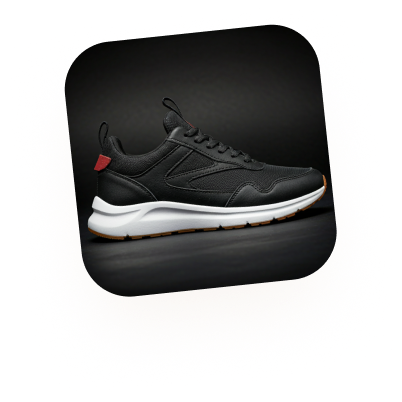
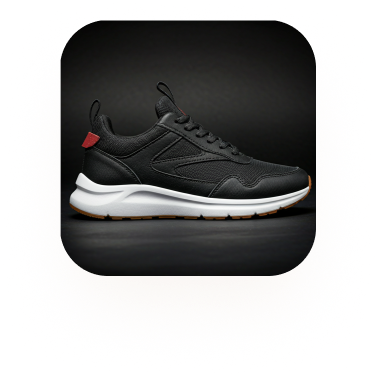
displayflrx

Changed region(s): [[0.1463, 0.0293, 0.8484, 0.7314], [0.2926, 0.7314, 0.3511, 0.7606]]

diff --git a/css/style.css b/css/style.css
@@ -21,12 +21,16 @@ body{
     margin: 0 auto;
     padding: 0 15px;
     outline: solid red;
+    display: flex;
+    align-items: center;
+    justify-content: space-between;
 }
 
 
 .header{
     padding-top: 24px;
     padding-bottom: 24px;
+    display: flex;
 }
 
 
@@ -49,6 +53,9 @@ letter-spacing: -1.2px;
 .header-list{
     display: flex;
     gap: 40px;
+    list-style: none;
+    margin: 0;
+    padding: 0;
 }
 
 
@@ -184,8 +191,7 @@ font-weight: 700;
 line-height: 1.42;
 letter-spacing: 1.4px;
 text-transform: uppercase;
-
-    }
-
+}
 
 
+.hero-item

diff --git a/index.html b/index.html
@@ -64,6 +64,17 @@
           </ul>
         </div>
       </section>
+      <section class="advantages">
+        <div class="container">
+          <div class="advanteges-box">
+            <h2 class="advatages-title">What is Y2K and why
+is it a hit again?</h2>
+             <p class="advantages-text">Fashion is cyclical, and today Gen Z is setting the new
+rules. We mix vintage vibes with modern aesthetics. The
+main rule of modern streetwear is </p>
+          </div>
+        </div>
+      </section>
     </main>
   </body>
 </html>